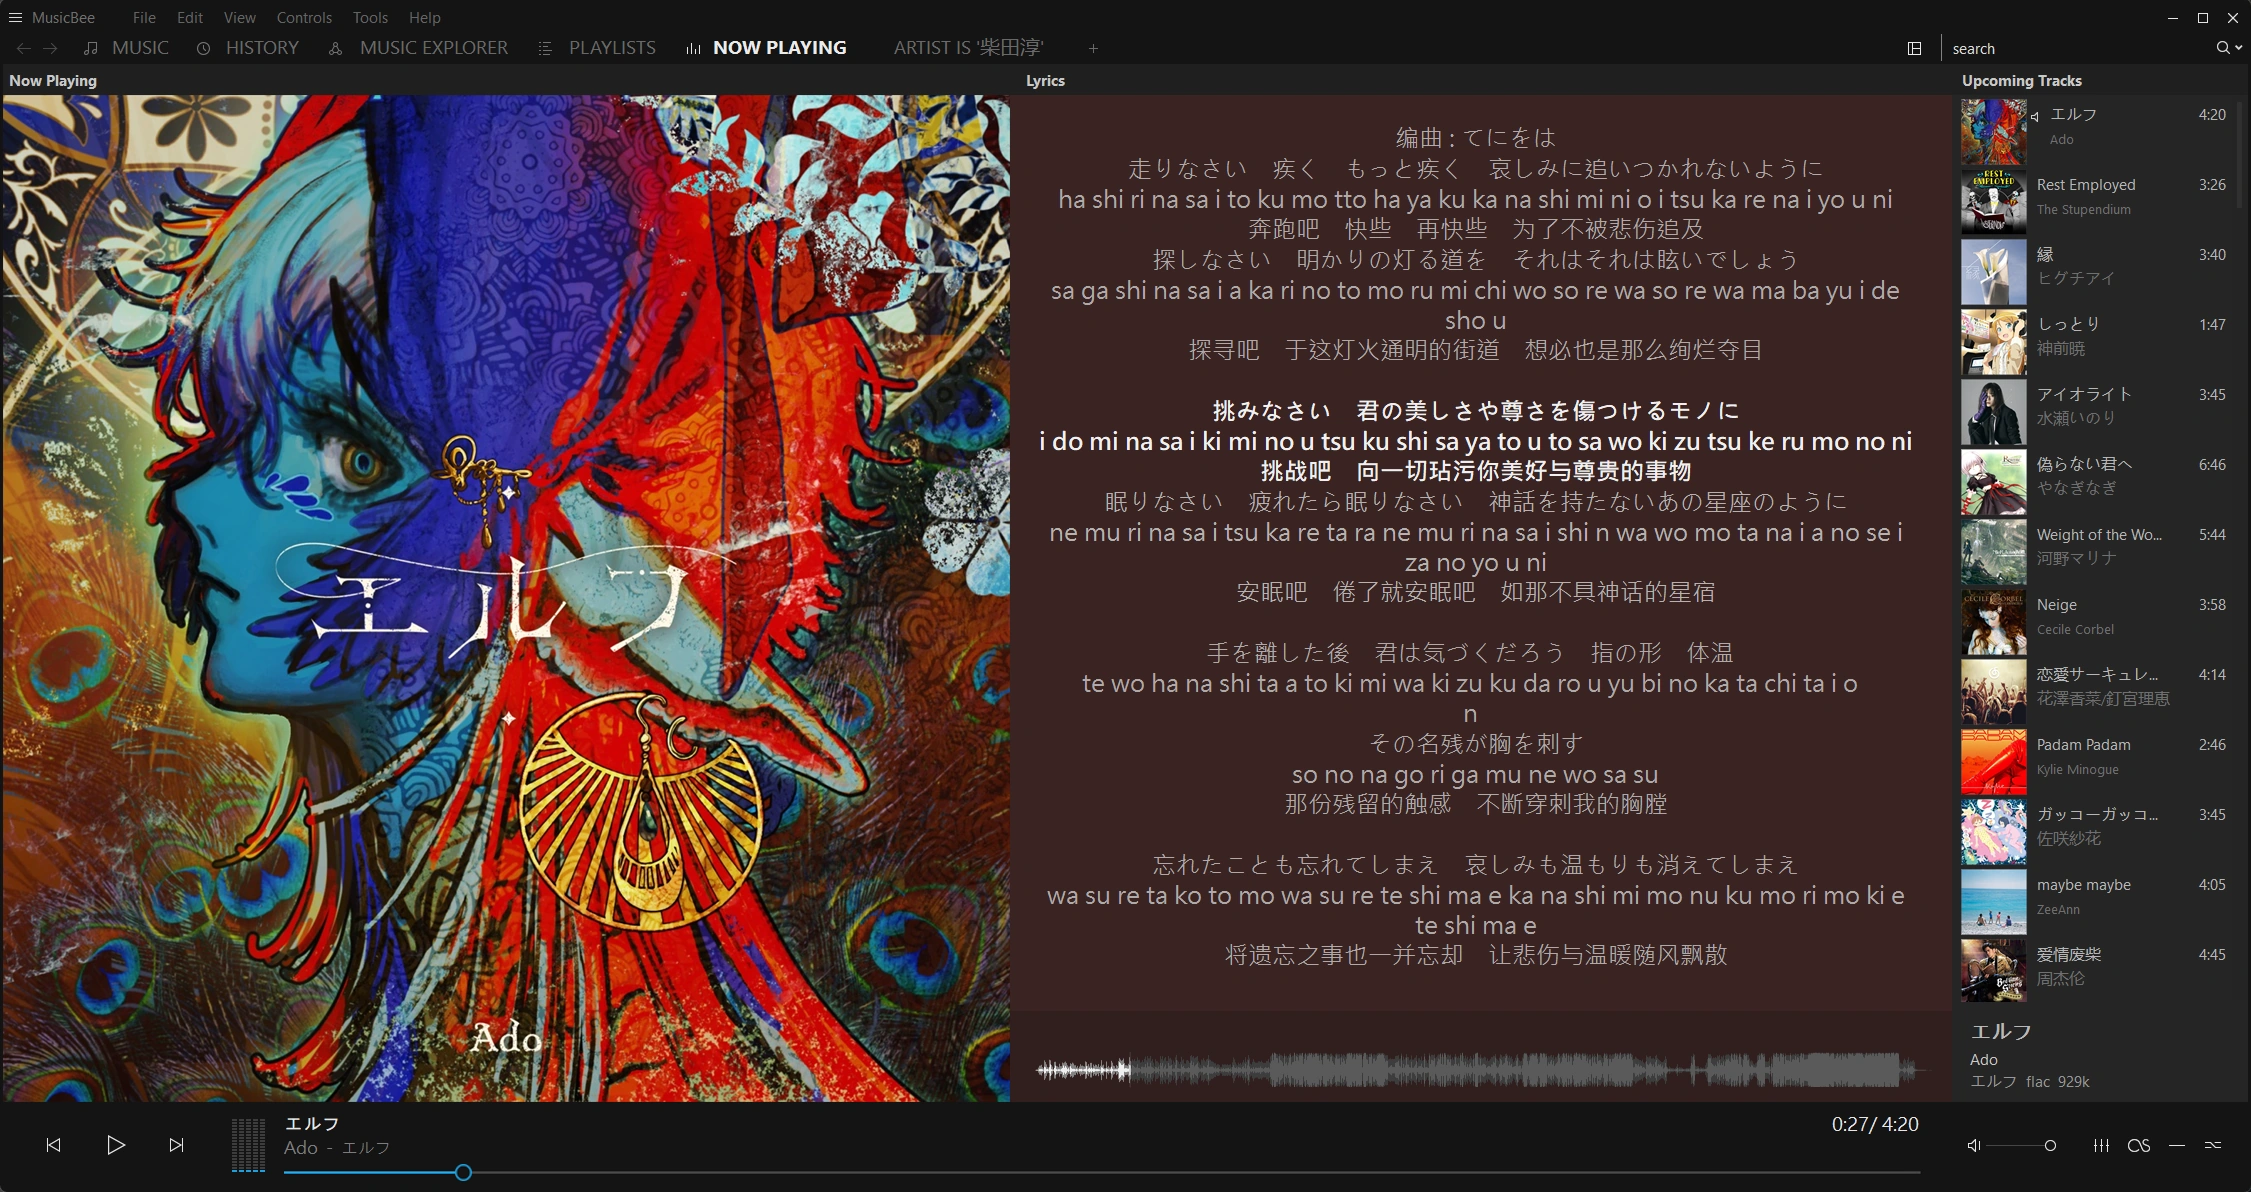
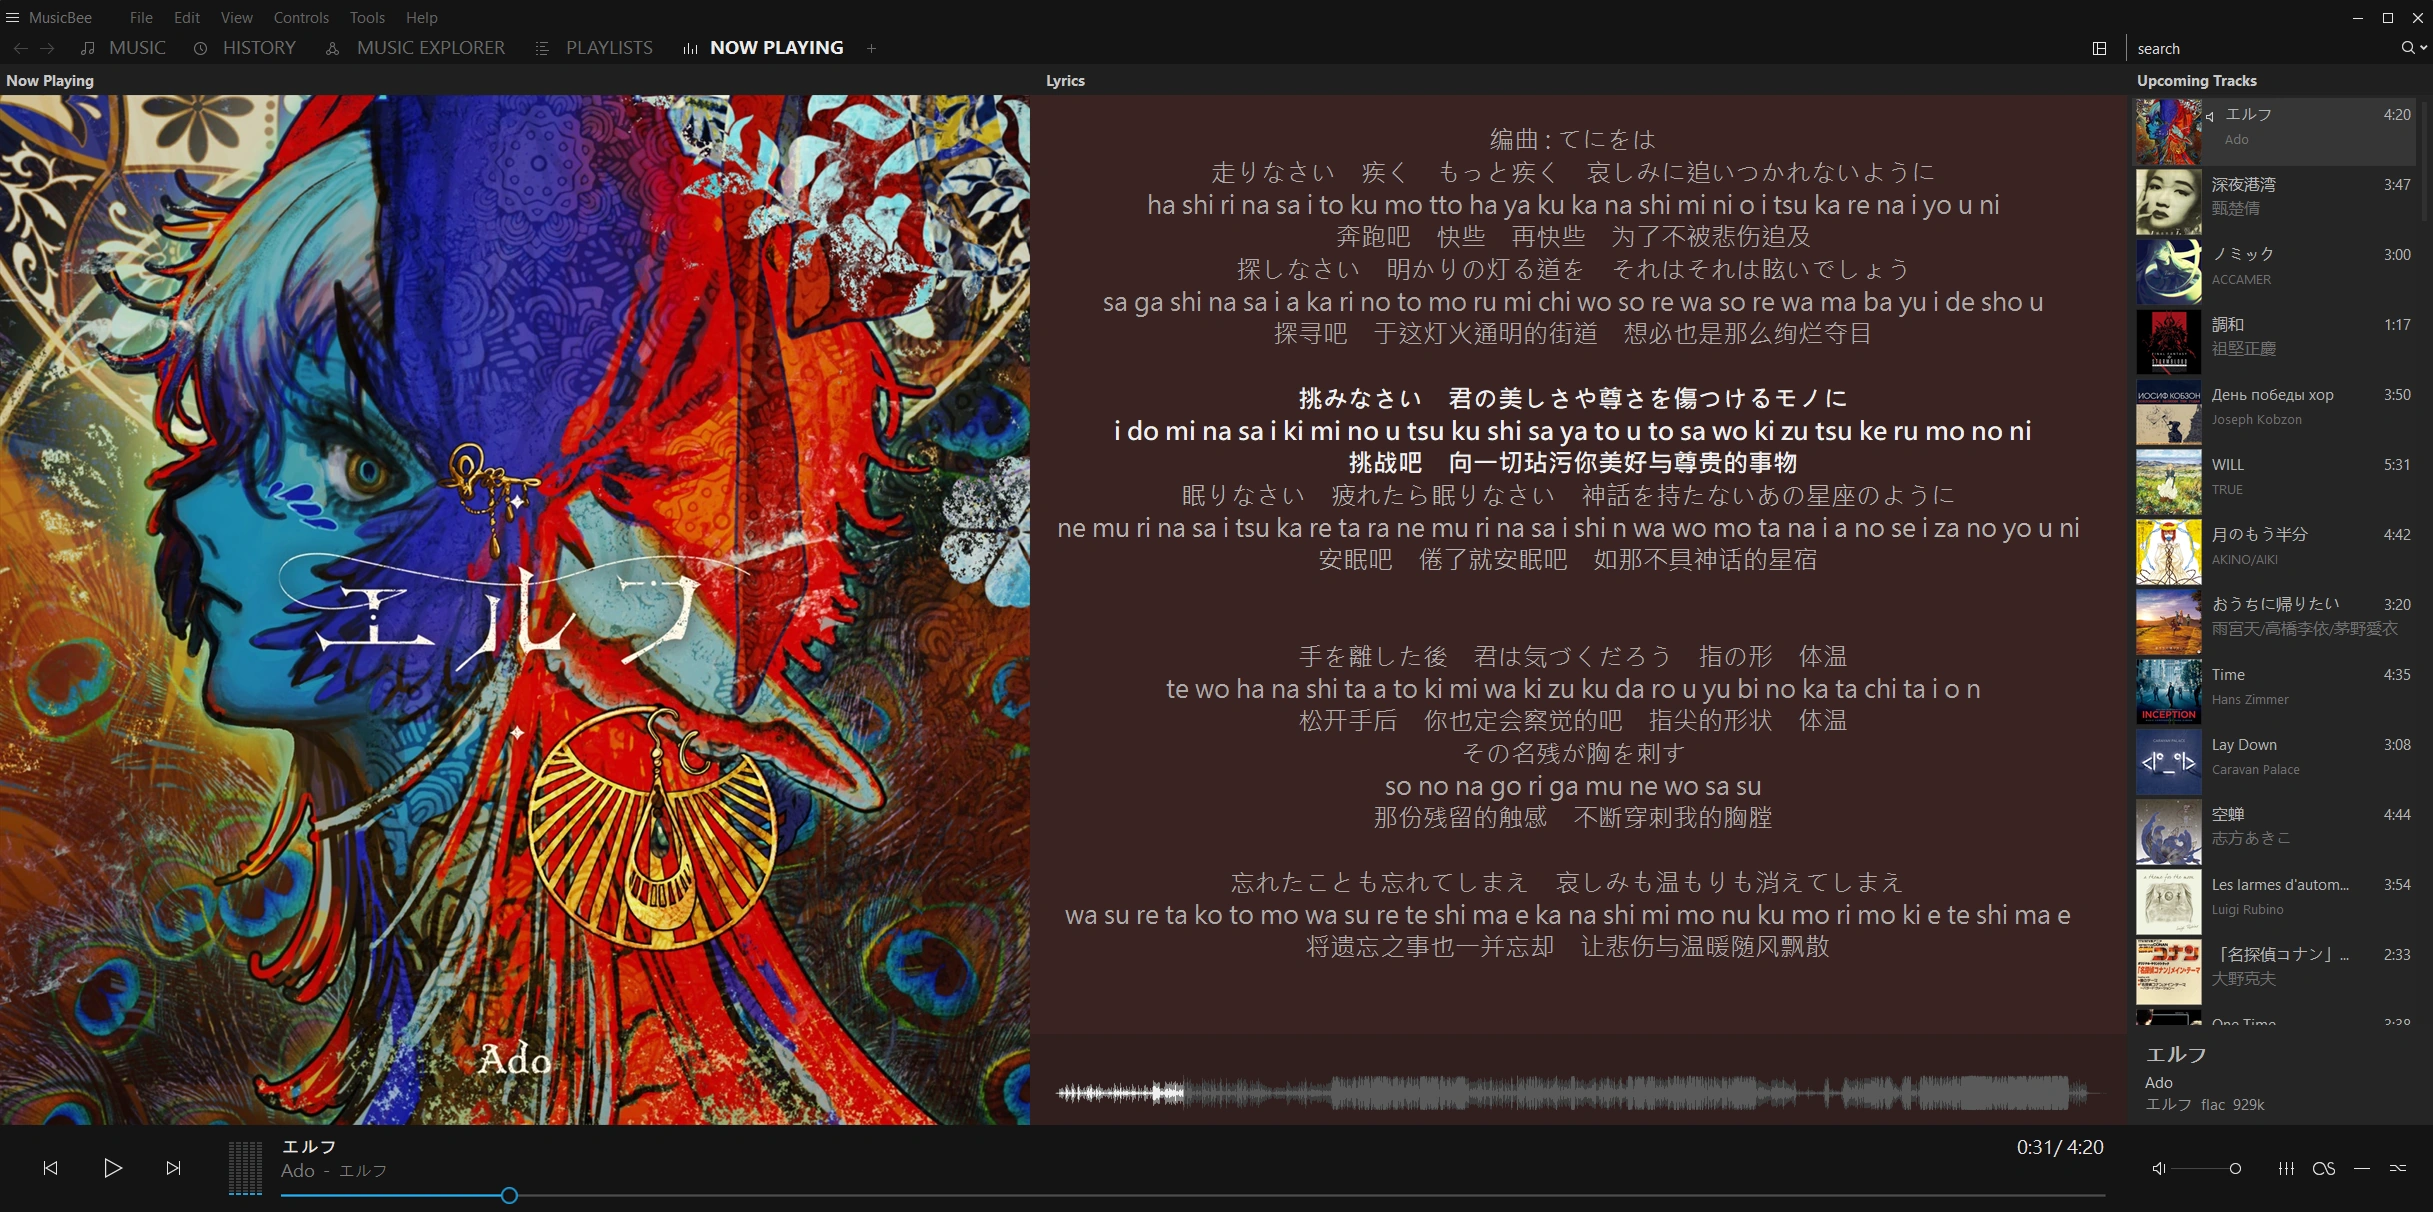
Release 1.9.7 with verified artist aliases and refreshed screenshots
Promote the reviewed artist-alias changes and audit follow-ups to stable 1.9.7. Update both READMEs with the verified song example, a replacement three-line cover and a new original-only English sample in quality-95 WebP. Preserve the test.1 and test.2 commits on dev.

diff --git a/src/Properties/AssemblyInfo.cs b/src/Properties/AssemblyInfo.cs
@@ -33,5 +33,5 @@ using System.Runtime.InteropServices;
 // by using the '*' as shown below:
 // [assembly: AssemblyVersion("1.0.*")]
 [assembly: AssemblyVersion("1.9.7.0")]
-[assembly: AssemblyFileVersion("1.9.7.2")]
-[assembly: AssemblyInformationalVersion("1.9.7-test.2")]
+[assembly: AssemblyFileVersion("1.9.7.0")]
+[assembly: AssemblyInformationalVersion("1.9.7")]

diff --git a/README.md b/README.md
@@ -70,6 +70,12 @@ Click either preview to open the full-size screenshot.
 | :---: | :---: |
 | [<img src="docs/screenshots/japanese-two-line.webp" alt="Japanese lyrics and Chinese translation highlighted together in MusicBee" width="400">](docs/screenshots/japanese-two-line.webp) | [<img src="docs/screenshots/cantonese-two-line.webp" alt="Cantonese lyrics and romanized pronunciation highlighted together in MusicBee" width="400">](docs/screenshots/cantonese-two-line.webp) |
 
+### Original-only example
+
+English lyrics with both extras turned off. Click the preview to open the full-size screenshot.
+
+[<img src="docs/screenshots/english-single-line.webp" alt="Original English lyrics highlighted in MusicBee, without translation or pronunciation" width="800">](docs/screenshots/english-single-line.webp)
+
 ### Untimed lyrics
 
 When original lyrics have no timestamps, compatible lines are displayed as `Original / Translation`, or `Original / Pronunciation / Translation`. There are no language-specific labels. Original verse breaks and section markers are retained.
@@ -91,7 +97,7 @@ Missing tags, translated titles or unresolved editions can still prevent a confi
 
 ### Real-song examples
 
-These cases show the earlier lookup failures and the corrected results. All three have been checked in MusicBee with existing tags and no Custom10 override. The artist-alias fix is currently available in the local 1.9.7 test build.
+These cases show the earlier lookup failures and the corrected results. All three have been checked in MusicBee with existing tags and no Custom10 override.
 
 | Recording | Earlier lookup behavior | Corrected result |
 | --- | --- | --- |
@@ -188,5 +194,6 @@ The [release history](https://github.com/tonyzehs/LyricBee-NetEaseLyrics/release
 | [1.9.4](https://github.com/tonyzehs/LyricBee-NetEaseLyrics/releases/tag/v1.9.4) | 1.9.4-test.1, test.2, 1.9.4 | Bilingual settings, independent extras, language overrides and simpler spelling controls |
 | [1.9.5](https://github.com/tonyzehs/LyricBee-NetEaseLyrics/releases/tag/v1.9.5) | 1.9.5-test.1–test.4, 1.9.5 | Automatic settings repair, matching and timing fixes, and diagnostic reports under Advanced |
 | [1.9.6](https://github.com/tonyzehs/LyricBee-NetEaseLyrics/releases/tag/v1.9.6) | 1.9.6-test.1–test.4, 1.9.6 | Manual update checking, improved diagnostic reports and automatic settings layout |
+| [1.9.7](https://github.com/tonyzehs/LyricBee-NetEaseLyrics/releases/tag/v1.9.7) | 1.9.7-test.1–test.2, 1.9.7 | Verified artist aliases for localized names and recovery from temporary artist metadata failures |
 
 The project remains under [Apache 2.0](LICENSE), with the retained [Zony MIT notice](LICENSE-Zony) for adopted API code. Credit for the original plugin and its upstream history belongs to Charlie Jiang and the upstream contributors. LyricBee is maintained by [Tony Y](https://github.com/tonyzehs). See [NOTICE](NOTICE) for attribution.

diff --git a/CHANGELOG.md b/CHANGELOG.md
@@ -1,3 +1,12 @@
+# 1.9.7
+
+- Match verified NetEase artist aliases when the title, album and known duration corroborate the recording. Fix automatic lookup of **奇縁ロマンス** tagged **ナナヲアカリ**, without changing local tags or setting Custom10.
+- Retry artist-name verification on the next lookup after timeouts, cancellations or temporary network/server failures. Keep the five-minute cooldown for definite refusals or invalid artist records.
+- Keep optional artist metadata refusals separate from lyric HTTP fallback, as with language metadata. Artist requests remain HTTPS only; search and lyric refusals still block insecure fallback.
+- Add alias regression fixtures, clearer matching traces and artist reply-size output for the optional live check. Ordinary matches make no extra requests; no bundled alias database or new runtime dependencies are added.
+- Refresh the three-line README screenshot and add an original-only English example, using quality-95 WebP images in both languages.
+- Product version: `1.9.7`; assembly/file version: `1.9.7.0`.
+
 # 1.9.7-test.2 — artist-alias review follow-ups (local testing build)
 
 - Keep optional artist metadata refusals separate from the lyric HTTP-fallback policy, matching optional language metadata. Artist requests remain HTTPS only; search/lyric refusals still block insecure fallback.

diff --git a/UPSTREAM-CHANGES.md b/UPSTREAM-CHANGES.md
@@ -38,7 +38,7 @@ Plain HTTP fallback is enabled by default and can be disabled in settings. It se
 
 Optional language metadata uses HTTPS only, with a two-second request limit inside the lookup budget. Its refusal does not change lyric transport fallback. Known labels use a bounded six-hour per-ID cache. Unknown or multilingual labels retain translation behavior; missing metadata permits conservative kana/Hangul inference. Lyrics-only overrides may request a language label even without pronunciation.
 
-### Verified artist aliases (1.9.7 testing)
+### Verified artist aliases (1.9.7)
 
 When ordinary matching finds no eligible song, candidates with an exact title and album and a known duration within two seconds may verify the primary artist through NetEase's `/api/artist/{id}` metadata. Only exact normalized names from that artist record can supply the missing identity. A secondary composer/guest alias cannot identify the singer, and additional local artist credits still need direct support. Candidate grouping retains the original service artist credits.
 
